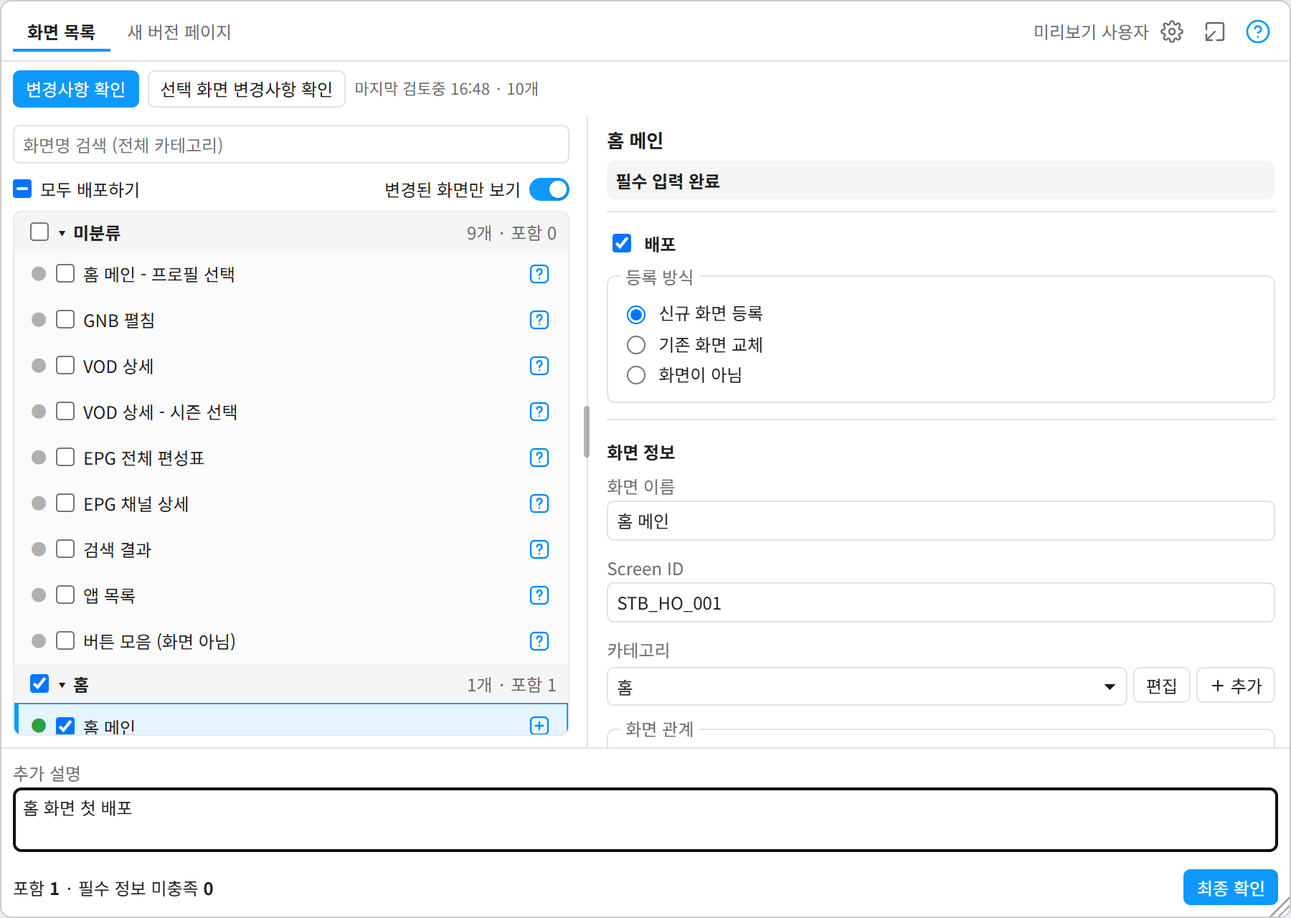
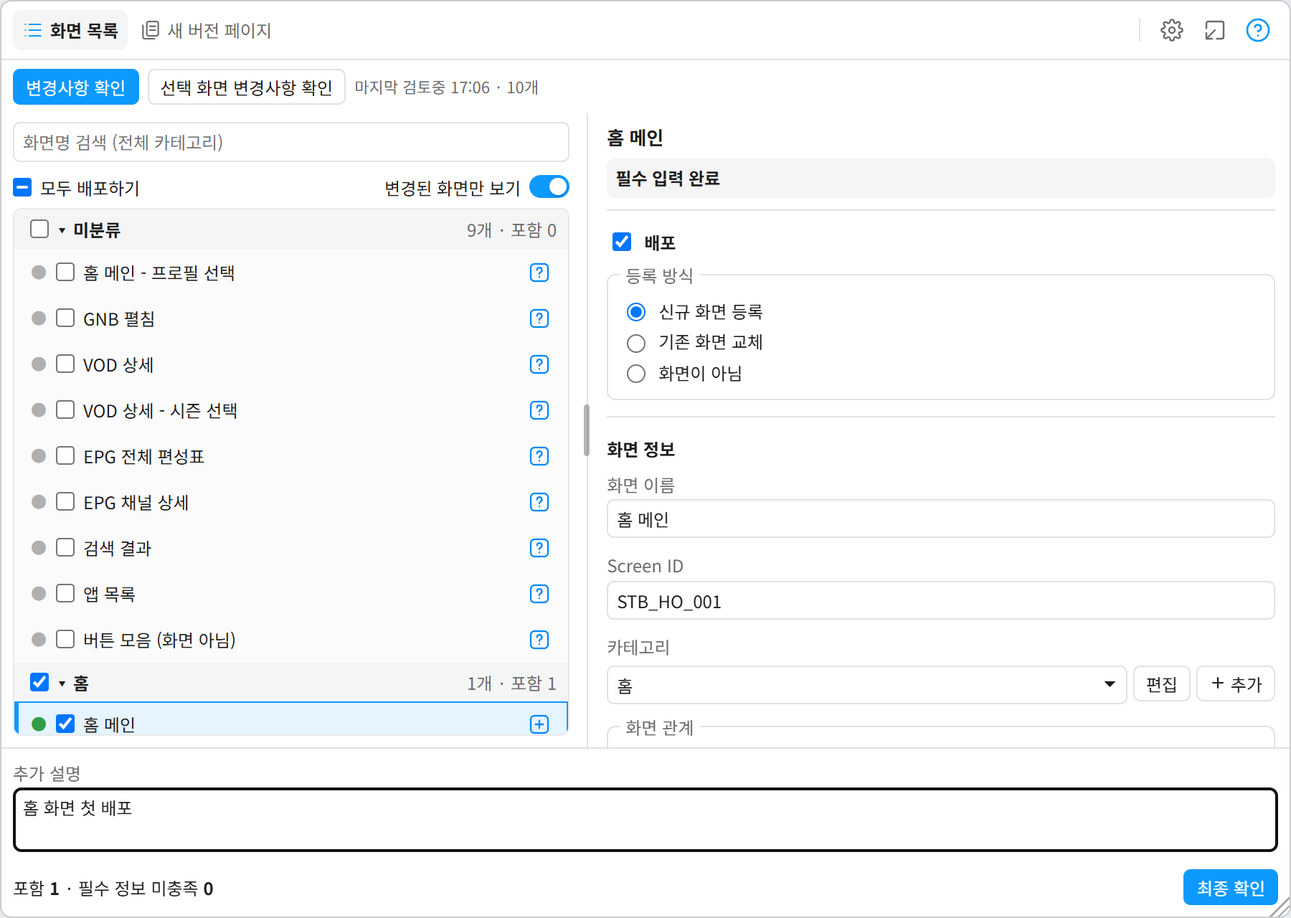
Align navigation with Figma tabs and refine GUI list guidance

diff --git a/release/guide.html b/release/guide.html
@@ -325,9 +325,9 @@ footer { color: var(--muted); font-size: 13px; text-align: center; margin-top: 2
     <figcaption>GUI가 다시 배포된 플립북. 아래쪽 확인 영역에서 수정된 화면을 보고 상태·코멘트를 남긴 뒤 「확인 완료」를 누릅니다.</figcaption>
   </figure>
 
-  <h3>GUI 붙이기와 추적 목록</h3>
-  <p>UI Flipbook의 탭은 <b>플립북 목록 · GUI 붙이기 · 텍스트 편집기 · 플로우 편집기 · PDF 저장</b> 순서입니다. <b>GUI 붙이기</b>는 현재 창 크기를 유지하며 배포된 화면을 목록 또는 그리드로 보여 줍니다. 카테고리의 <b>전체</b> 또는 원하는 카테고리를 고르고 Screen ID·화면 이름으로 검색할 수 있습니다. 특정 카테고리의 검색 결과가 없으면 <b>전체 카테고리에서 검색하기</b>를 눌러 같은 검색어로 전체를 찾습니다. 화면을 누르면 보고 있는 캔버스 가운데에, 끌어 놓으면 그 자리에 레이어 복사본을 만듭니다. 플립북 위에 놓으면 그 프레임 바로 아래 자식으로 들어가 함께 움직입니다. K 단축키로 캔버스에 배치한 화면의 크기를 바꿀 수 있습니다.</p>
-  <figure><img src="screens/ui-paste.png" alt="GUI 붙이기: 카테고리, 크기, 보기 전환과 배포된 화면"><figcaption>그리드의 Screen ID는 썸네일 안 왼쪽 위에 표시합니다. 화면 옆 개수는 추적 GUI와 그 화면이 든 플로우를 합친 수입니다. 링크 아이콘과 개수는 버튼 하나로 표시하며, 0개인 화면은 버튼을 비활성화합니다.</figcaption></figure>
+  <h3>GUI 목록와 추적 목록</h3>
+  <p>UI Flipbook의 탭은 <b>플립북 목록 · GUI 목록 · 텍스트 편집기 · 플로우 편집기 · PDF 저장</b> 순서입니다. <b>GUI 목록</b>는 현재 창 크기를 유지하며 배포된 화면을 목록 또는 그리드로 보여 줍니다. 카테고리의 <b>전체</b> 또는 원하는 카테고리를 고르고 Screen ID·화면 이름으로 검색할 수 있습니다. 특정 카테고리의 검색 결과가 없으면 <b>전체 카테고리에서 검색하기</b>를 눌러 같은 검색어로 전체를 찾습니다. 화면을 누르면 보고 있는 캔버스 가운데에, 드래그하면 그 자리에 레이어 복사본을 만듭니다. 플립북 위에 놓으면 그 프레임 바로 아래 자식으로 들어가 함께 움직입니다. K 단축키로 캔버스에 배치한 화면의 크기를 바꿀 수 있습니다.</p>
+  <figure><img src="screens/ui-paste.png" alt="GUI 목록: 카테고리, 크기, 보기 전환과 배포된 화면"><figcaption>그리드의 Screen ID는 썸네일 안 왼쪽 위에 표시합니다. 화면 옆 개수는 추적 GUI와 그 화면이 든 플로우를 합친 수입니다. 링크 아이콘과 개수는 버튼 하나로 표시하며, 0개인 화면은 버튼을 비활성화합니다.</figcaption></figure>
   <p>화면 오른쪽 목록 아이콘 또는 플립북 상세의 화면을 누르면 <b>추적 목록</b>을 엽니다. 제목은 화면 이름이며, <b>화면 / 플로우</b>를 나눠 놓인 경로와 함께 보여 줍니다. 항목을 누르면 그 레이어로 이동합니다. 캔버스에서 지운 항목은 기록에서도 빠집니다. 플로우 편집기의 별도 「만든 플로우」 목록은 이 팝업으로 통합했습니다.</p>
   <p>GUI를 다시 배포하면 플립북 밖의 추적 GUI도 최신으로 바뀌며 자리·폭·마커를 유지합니다. 배포 당시 그 GUI가 실제로 들어 있는 새 템플릿 플립북에 이력과 확인 필요 표시가 생깁니다. 화면이 삭제·화면이 아님·배포 취소가 되면 레이어는 남기고 추적을 멈추며, 소속 플립북에 삭제된 화면 경고가 생깁니다. 경고의 <b>확인</b>을 누르면 경고와 해당 알림이 사라집니다. 기존 화면 교체는 이어받은 화면을 따라갑니다.</p>
   <p>새 템플릿 플립북의 초기 상태는 <b>작성 전</b>이며 이후 가장 최근에 받은 GUI 또는 UI 태그를 표시합니다. 확인 완료의 기본 상태는 <b>현행</b>(이전 이름 「최신」)입니다. 이전 STB 템플릿의 GUI Image Slot은 기존 방식대로 동작합니다.</p>
@@ -347,10 +347,10 @@ footer { color: var(--muted); font-size: 13px; text-align: center; margin-top: 2
   <h3>플로우 편집기</h3>
   <p>배포된 화면의 썸네일을 배치하고 화살표로 연결한 플로우를 FigJam처럼 만듭니다. 머리의 <span class="ui">플로우 편집기</span> 탭에서 합니다. 플로우는 플립북이 아닌 별도 그룹이라 확인 완료·이력 행이 없습니다.</p>
   <ol class="steps">
-    <li><b>추가</b>왼쪽 <span class="ui">배포된 화면</span>은 GUI 붙이기와 같은 카테고리 선택·검색·목록/그리드 보기를 제공합니다. 특정 카테고리에서 검색 결과가 없으면 <b>전체 카테고리에서 검색하기</b>로 전환합니다. 화면을 클릭하면 판의 빈 자리에, 판으로 드래그하면 놓은 자리에 그 화면의 GUI 썸네일이 추가됩니다. 썸네일은 캔버스에 놓일 크기 비율 그대로 보입니다. 판의 격자는 위치를 맞추는 눈금이라 썸네일이 여러 칸에 걸쳐도 되고, 드래그해 옮기면 격자에 맞춰 놓입니다.</li>
+    <li><b>추가</b>왼쪽 <span class="ui">배포된 화면</span>은 GUI 목록와 같은 카테고리 선택·검색·목록/그리드 보기를 제공합니다. 특정 카테고리에서 검색 결과가 없으면 <b>전체 카테고리에서 검색하기</b>로 전환합니다. 화면을 클릭하면 판의 빈 자리에, 판으로 드래그하면 놓은 자리에 그 화면의 GUI 썸네일이 추가됩니다. 썸네일은 캔버스에 놓일 크기 비율 그대로 보입니다. 판의 격자는 위치를 맞추는 눈금이라 썸네일이 여러 칸에 걸쳐도 되고, 드래그해 옮기면 격자에 맞춰 놓입니다.</li>
     <li><b>연결</b>썸네일에 마우스를 올리면 상하좌우에 점이 나옵니다. 점을 다른 썸네일로 드래그하면 화살표로 연결됩니다. 다른 썸네일의 점에 놓으면 그 변에, 썸네일 위에 놓으면 마주 보는 변에 연결됩니다. 화살표는 다른 화면을 피해 꺾입니다. 썸네일이나 화살표를 선택하고 <kbd>Delete</kbd>를 누르면 삭제됩니다. 판은 Figma 캔버스처럼 가운데 버튼이나 <kbd>Space</kbd>를 누른 채 드래그하거나 휠로 움직이고, <kbd>Ctrl</kbd>+휠로 확대·축소합니다.</li>
     <li><b>만들기</b><span class="ui">플로우 제목</span>을 정하고 <span class="ui">플로우 만들기</span>를 누르면 지금 보고 있는 페이지 가운데에 판과 같은 배치·화살표로 플로우가 생깁니다. 화면마다 제목·썸네일·설명, 화살표마다 출발 화면 가까이에 조건 레이어가 있고, 제목·설명·조건은 더미 글자로 들어가니 캔버스에서 고쳐 씁니다.</li>
-    <li><b>플로우 찾기</b>GUI 붙이기의 화면 오른쪽 목록 아이콘 또는 플립북 상세의 화면을 눌러 추적 목록을 엽니다. 「플로우」의 항목을 누르면 캔버스의 그 화면 칸으로 이동합니다. 캔버스에서 지운 플로우는 목록에서 자동으로 빠집니다.</li>
+    <li><b>플로우 찾기</b>GUI 목록의 화면 오른쪽 목록 아이콘 또는 플립북 상세의 화면을 눌러 추적 목록을 엽니다. 「플로우」의 항목을 누르면 캔버스의 그 화면 칸으로 이동합니다. 캔버스에서 지운 플로우는 목록에서 자동으로 빠집니다.</li>
   </ol>
   <figure>
     <img src="screens/ui-flow.png" alt="플로우 탭: 왼쪽 배포된 화면 목록, 오른쪽 옅은 회색 격자 판에 놓인 썸네일 두 장과 이어진 화살표, 플로우 제목 입력, 플로우 만들기 버튼">

diff --git a/src/ui/styles.css b/src/ui/styles.css
@@ -35,14 +35,17 @@ legend { color: var(--muted); padding: 0 4px; }
 .inline > input, .inline > select { flex: 1; min-width: 0; }
 .inline > button { flex: none; }
 
-.tabs { grid-column: 1 / -1; display: flex; gap: 2px; padding: 6px 8px 0; border-bottom: 1px solid var(--border); align-items: end; }
-.tabs button { border: 0; border-radius: 5px 5px 0 0; padding: 6px 10px; background: none; color: var(--muted); }
-.tabs button[aria-selected="true"] { color: var(--text); font-weight: 600; box-shadow: inset 0 -2px 0 var(--brand); }
-/* 창이 좁으면 사용자 이름, 탭 이름 순으로 줄어(말줄임, 탭 전체 이름은 title) 톱니바퀴·도움말이 창 안에 남는다.
- */
-.create-tabs { display: flex; gap: 2px; min-width: 0; }
-.create-tabs button { white-space: nowrap; min-width: 0; overflow: hidden; text-overflow: ellipsis; }
-.tabs .who { margin-left: auto; color: var(--muted); padding-bottom: 6px; max-width: 40%; overflow: hidden; text-overflow: ellipsis; white-space: nowrap; flex-shrink: 1000; }
+.tabs { grid-column: 1 / -1; display: flex; align-items: center; gap: 4px; padding: 6px 8px; border-bottom: 1px solid var(--border); container-type: inline-size; }
+.tabs button { border: 0; padding: 0 6px; background: none; color: var(--muted); }
+.create-tabs { display: flex; align-items: center; gap: 2px; min-width: 0; }
+.create-tabs button { display: inline-flex; align-items: center; justify-content: center; gap: 4px; height: 28px; flex: none; white-space: nowrap; border-radius: 6px; }
+.create-tabs button svg { flex: none; }
+.create-tabs button[aria-selected="true"] { color: var(--text); font-weight: 600; background: var(--bg2); box-shadow: none; }
+.create-tabs button[aria-selected="true"] svg { color: var(--brand); }
+.tab-tools { display: flex; align-items: center; flex: none; gap: 2px; margin-left: auto; }
+.tab-separator { width: 1px; height: 16px; background: var(--border); margin: 0 6px; }
+@container (max-width: 600px) { .ui-tabs .tab-label { display: none; } }
+@container (max-width: 520px) { .tab-label { display: none; } }
 
 .toolbar { grid-column: 1 / -1; display: flex; gap: 6px; align-items: center; padding: 6px 8px; flex-wrap: wrap; }
 .toolbar input[type="search"] { flex: 1 1 160px; }
@@ -293,9 +296,7 @@ button.link.danger { color: var(--danger); }
 .footer { flex-wrap: wrap; }
 .footer-note { flex-basis: 100%; margin: 0; }
 /* 머리: 실행한 명령 이름과 설정(톱니바퀴) */
-.tabs { align-items: center; padding: 6px 8px; }
 .tabs .app-title { font-weight: 600; }
-.tabs .who { padding-bottom: 0; }
 .tabs .icon-button { display: inline-flex; align-items: center; justify-content: center; width: 28px; height: 28px; padding: 0; border-radius: 6px; color: var(--muted); box-shadow: none; flex: none; }
 .tabs .icon-button[aria-pressed="true"] { color: var(--brand); background: var(--selected); }
 .tabs .help-button { color: var(--brand); }
@@ -570,7 +571,8 @@ button.danger:hover:not(:disabled) { background: var(--danger); color: var(--onb
 .paste-bar select { flex: 1; min-width: 0; }
 .paste-toggle { flex: none; display: flex; gap: 2px; }
 .paste-toggle button[aria-pressed="true"] { color: var(--brand); background: var(--selected); }
-.paste-tip, .paste-hint { flex: none; margin: 0; }
+.paste-tip, .paste-hint { flex: none; margin: 0; padding: 0 4px; }
+.paste-tip-label { color: var(--brand); font-weight: 600; margin-right: 4px; }
 .paste-screens { flex: 1; min-height: 0; overflow: auto; border: 1px solid var(--border); border-radius: 5px; }
 .paste-search { flex: none; min-width: 0; width: 100%; }
 .paste-screens.grid > .empty, .flow-screens.grid > .empty { grid-column: 1 / -1; }

diff --git a/src/ui/app.ts b/src/ui/app.ts
@@ -1,4 +1,5 @@
 import { windowCollapse } from './windowCollapse.ts';
+import { headerTab } from './headerTab.ts';
 import { COPY } from '../core/copy.ts';
 import { changeDetected, entryName, ignoreBlock, uiEntries as buildUiEntries, uiEstimate, type Entry, type UiScan } from '../core/compare.ts';
 import type { GuiScreenInfo } from '../core/guiScreens.ts';
@@ -723,13 +724,14 @@ export function startApp(bridge: Bridge, root: HTMLElement): void {
   function renderTabs() {
     const settings = tab === 'ADMIN';
     // 머리에는 명령 이름(GUI Publish·UI Flipbook)을 쓰지 않고 탭만 둔다(2026-10-22 사용자 요청). 탭이 없는 관리 화면만 「관리」를 쓴다.
+    $('.tabs').classList.toggle('ui-tabs', mode === 'UI');
     $('.tabs').innerHTML = `${settings ? `<span class="app-title">${COPY.uiApp004}</span>` : ''}` +
-      `${mode === 'GUI' && !settings ? `<div class="create-tabs"><button data-action="version-close" aria-selected="${!versionOpen}">${COPY.uiApp272}</button><button data-action="version-open" aria-selected="${versionOpen}">${COPY.uiApp248}</button></div>` : ''}` +
-      `${mode === 'UI' && !settings ? `<div class="create-tabs"><button data-action="text-close" title="${COPY.uiApp302}" aria-selected="${listTabOpen()}">${COPY.uiApp302}</button><button data-action="paste-open" title="${COPY.paste001}" aria-selected="${pasteOpen}">${COPY.paste001}</button><button data-action="text-open" title="${COPY.uiApp303}" aria-selected="${textOpen}">${COPY.uiApp303}</button><button data-action="flow-open" title="${COPY.flow020}" aria-selected="${flowOpen}">${COPY.flow020}</button><button data-action="pdf-open" title="${COPY.pdf001}" aria-selected="${pdfOpen}">${COPY.pdf001}</button></div>` : ''}` +
-      `<span class="who" title="${COPY.uiApp005}">${esc(actor?.name ?? '')}</span>` +
+      `${mode === 'GUI' && !settings ? `<div class="create-tabs" role="tablist">${headerTab('version-close', COPY.uiApp272, !versionOpen, 'list')}${headerTab('version-open', COPY.uiApp248, versionOpen, 'versions')}</div>` : ''}` +
+      `${mode === 'UI' && !settings ? `<div class="create-tabs" role="tablist">${headerTab('text-close', COPY.uiApp302, listTabOpen(), 'book')}${headerTab('paste-open', COPY.paste001, pasteOpen, 'paste')}<span class="tab-separator tab-group-separator" aria-hidden="true"></span>${headerTab('text-open', COPY.uiApp303, textOpen, 'text')}${headerTab('flow-open', COPY.flow020, flowOpen, 'flow')}${headerTab('pdf-open', COPY.pdf001, pdfOpen, 'pdf')}</div>` : ''}` +
+      `<div class="tab-tools">${mode === 'GUI' ? '<span class="tab-separator" aria-hidden="true"></span>' : ''}` +
       `<button class="icon-button" data-action="settings" aria-pressed="${settings}" title="${COPY.uiApp004}" aria-label="${COPY.uiApp004}">${GEAR}</button>` +
       `<button class="icon-button" data-action="collapse-window" title="${COPY.windowCollapse}" aria-label="${COPY.windowCollapse}"><svg width="16" height="16" viewBox="0 0 24 24" fill="none" stroke="currentColor" stroke-width="1.8" stroke-linecap="round" stroke-linejoin="round" aria-hidden="true"><path d="M3 10V5a2 2 0 0 1 2-2h14a2 2 0 0 1 2 2v14a2 2 0 0 1-2 2h-5"/><path d="M3 15v6h6M3 21l9-9"/></svg></button>` +
-      `<button class="icon-button help-button" data-action="tutorial" title="${COPY.uiTutorial001}" aria-label="${COPY.uiTutorial001}">${HELP}</button>`;
+      `<button class="icon-button help-button" data-action="tutorial" title="${COPY.uiTutorial001}" aria-label="${COPY.uiTutorial001}">${HELP}</button></div>`;
   }
 
   function renderToolbar() {

diff --git a/src/core/copy.ts b/src/core/copy.ts
@@ -521,8 +521,8 @@ export const COPY = {
   uiTutorial074: "새 기능",
   uiTutorial075: "소속 화면",
   uiTutorial076: "캔버스에서 이 플립북 안에 놓은 화면입니다. 화면을 누르면 추적 목록에서 붙인 자리와 플로우를 찾습니다.",
-  uiTutorial081: "GUI 붙이기",
-  uiTutorial082: "카테고리를 고르고 화면을 누르거나 캔버스로 끌어 놓습니다. GUI 재배포를 따라가며, 목록 아이콘으로 붙인 자리와 플로우를 찾습니다.",
+  uiTutorial081: "GUI 목록",
+  uiTutorial082: "카테고리를 고르고 화면을 클릭하거나 캔버스로 드래그합니다. GUI 재배포를 따라가며, 목록 아이콘으로 붙인 자리와 플로우를 찾습니다.",
   uiTutorial077: "PDF 저장",
   uiTutorial078: "지금 보고 있는 페이지에서 캔버스로 고른 프레임을 왼쪽 위에서 오른쪽 아래 순서로 한 PDF에 저장합니다. UI Title·Update History List는 저장하는 동안만 숨깁니다.",
   uiTutorial079: "변경 사항",
@@ -841,7 +841,7 @@ export const COPY = {
   // 추적 GUI — src/trackController.ts
   track001: '붙인 화면',
   track002: '개를 새 버전으로 바꿨습니다.',
-  track003: '배포된 GUI가 없는 화면이라 붙이지 못했습니다. GUI 붙이기 탭을 다시 열어 목록을 새로 받으세요.',
+  track003: '배포된 GUI가 없는 화면이라 붙이지 못했습니다. GUI 목록 탭을 다시 열어 목록을 새로 받으세요.',
   track004: '화면 붙이는 중',
   track005: '캔버스에서 삭제된 화면입니다. 목록에서 제거했습니다.',
   // 추적 목록 팝업 — src/ui/trackListView.ts
@@ -851,19 +851,20 @@ export const COPY = {
   trackList004: '이 화면이 든 플로우가 없습니다.',
   trackList005: '닫기',
   trackList006: '추적 목록',
-  // GUI 붙이기 탭 — src/ui/pasteView.ts
-  paste001: 'GUI 붙이기',
+  // GUI 목록 탭 — src/ui/pasteView.ts
+  paste001: 'GUI 목록',
   paste002: '카테고리',
   paste003: '목록 보기',
   paste004: '그리드 보기',
   paste005: '화면 크기',
   paste006: 'K 단축키로 캔버스에 배치한 화면의 크기를 바꿀 수 있습니다.',
-  paste007: '끌어서 캔버스에 놓거나, 누르면 보고 있는 화면 가운데에 붙입니다.',
+  paste007: '캔버스로 드래그 혹은 클릭하여 GUI를 배치할 수 있습니다.',
   paste008: '붙인 화면·플로우',
   paste009: '전체',
   paste010: 'Screen ID·화면 이름 검색',
   paste011: '전체 카테고리에서 검색하기',
   paste012: '검색 결과가 없습니다.',
+  paste013: 'TIP',
   // PDF 저장 — src/ui/pdfView.ts, src/figma/pdf.ts
   pdf001: 'PDF 저장',
   pdf002: '선택한 프레임',

diff --git a/src/ui/headerTab.ts b/src/ui/headerTab.ts
@@ -1,0 +1,15 @@
+import { esc } from './html.ts';
+
+type TabIcon = 'list' | 'versions' | 'book' | 'paste' | 'text' | 'flow' | 'pdf';
+const paths: Record<TabIcon, string> = {
+  list: '<path d="M8 6h12M8 12h12M8 18h12M4 6h.01M4 12h.01M4 18h.01"/>',
+  versions: '<rect x="8" y="3" width="12" height="15" rx="2"/><path d="M4 7v12a2 2 0 0 0 2 2h10M11 8h6M11 12h6"/>',
+  book: '<path d="M12 5c-3-2-6-2-9-1v15c3-1 6-1 9 1 3-2 6-2 9-1V4c-3-1-6-1-9 1v15Z"/>',
+  paste: '<rect x="3" y="3" width="18" height="18" rx="2"/><path d="M3 15l5-5 5 5 3-3 5 5M16 7h.01"/>',
+  text: '<path d="M4 5h16M12 5v15M8 20h8"/>',
+  flow: '<rect x="3" y="3" width="6" height="6" rx="1"/><rect x="15" y="15" width="6" height="6" rx="1"/><path d="M6 9v9h9M13 5h6v6"/>',
+  pdf: '<path d="M14 3H6a2 2 0 0 0-2 2v14a2 2 0 0 0 2 2h12a2 2 0 0 0 2-2V9l-6-6Z"/><path d="M14 3v6h6M8 13h8M8 17h6"/>',
+};
+export function headerTab(action: string, label: string, selected: boolean, icon: TabIcon): string {
+  return `<button role="tab" data-action="${action}" title="${esc(label)}" aria-label="${esc(label)}" aria-selected="${selected}"><svg width="16" height="16" viewBox="0 0 24 24" fill="none" stroke="currentColor" stroke-width="1.6" stroke-linecap="round" stroke-linejoin="round" aria-hidden="true">${paths[icon]}</svg><span class="tab-label">${esc(label)}</span></button>`;
+}

diff --git a/src/ui/pasteView.ts b/src/ui/pasteView.ts
@@ -73,9 +73,9 @@ export function pasteView(root: HTMLElement, actions: PasteActions): PasteView {
 
   function build(el: HTMLElement) {
     el.innerHTML = `${screenPickerControls('paste', query)}
-      <p class="note paste-tip">${COPY.paste006}</p>
+      <p class="note paste-hint">${COPY.paste007}</p>
       <div class="paste-screens"></div>
-      <p class="note paste-hint">${COPY.paste007}</p>`;
+      <p class="note paste-tip"><span class="paste-tip-label">${COPY.paste013}</span> ${COPY.paste006}</p>`;
     el.addEventListener('input', ev => {
       const input = ev.target as HTMLInputElement;
       if (input.dataset.paste !== 'search') return;

diff --git a/BEHAVIOR.md b/BEHAVIOR.md
@@ -6,13 +6,14 @@
 
 ## 공통
 
+- 상단 탭은 Figma Design·Prototype 탭처럼 선택 시 연한 회색 배경·둥근 모서리로 표시하며 밑줄은 없다. 각 탭에 아이콘을 붙이고 선택한 탭의 아이콘만 파란색으로 표시한다. 좁은 창에서는 아이콘만 표시한다(이름은 툴팁·접근성 이름으로 유지). 사용자 이름은 표시하지 않는다. UI Flipbook은 「플립북 목록 · GUI 목록 | 텍스트 편집기 · 플로우 편집기 · PDF 저장」 사이에 짧은 세로 구분선을 둔다. GUI Publish는 탭 두 개와 오른쪽 도구 사이에 구분선을 둔다. 기본 창에서는 탭 이름을 표시하고 공간이 부족한 좁은 창에서만 아이콘으로 표시한다.
 - 머리의 「창 접기」를 누르면 명령 이름과 「창 펼치기」 버튼만 있는 작은 바로 줄어든다. 펼치면 접기 전 크기·작업 화면·입력·선택 상태로 돌아온다. 접힌 동안 작업은 계속되고, 작은 바의 크기는 다음 실행 크기로 저장하지 않는다.
 
 - GUI팀과 UI팀이 한 Figma 파일에서 화면 변경을 확정(Publish)하고 플립북과 이력을 관리하는 플러그인이다. 플러그인 메뉴에서 **GUI Publish** 또는 **UI Flipbook** 명령을 골라 실행한다.
 - GUI와 UI는 한 파일에서 작업한다. 플립북에는 GUI 원본의 레이어 복사본(컴포넌트 연결을 끊은 복제, 스타일·변수 연결 유지)을 원본에서 바로 넣는다. PNG나 라이브러리 컴포넌트로 전달하지 않으며, 외부 서버와 Figma 팀 라이브러리는 쓰지 않는다.
 - 캔버스에서 프레임을 고르면 실행한 명령의 목록에서만 그 항목을 고른다. GUI Publish에서 플립북 프레임을, UI Flipbook에서 GUI 원본을 골라도 다른 명령의 화면으로 바꾸지 않는다.
 - 창은 오른쪽 아래 손잡이로 가로 448px, 세로 370px(UI Flipbook은 320px)까지 줄일 수 있고, 넘치는 내용은 각 영역 안에서 스크롤한다.
-- 상시 표시 썸네일은 플립북 상세 240px, GUI 붙이기 그리드 최소 160px, 새 버전 비교 최소 240px을 기준으로 영역 폭에 맞춰 줄인다. 이전 배포 미리보기는 최대 720px이다. 마우스 오버 미리보기는 플로우 편집기를 포함해 최대 240px로 통일하고 창 안에 맞춰 줄인다. 버튼 위에서는 미리보기를 표시하지 않으며, 행에서 버튼으로 이동하면 열린 미리보기를 닫는다.
+- 상시 표시 썸네일은 플립북 상세 240px, GUI 목록 그리드 최소 160px, 새 버전 비교 최소 240px을 기준으로 영역 폭에 맞춰 줄인다. 이전 배포 미리보기는 최대 720px이다. 마우스 오버 미리보기는 플로우 편집기를 포함해 최대 240px로 통일하고 창 안에 맞춰 줄인다. 버튼 위에서는 미리보기를 표시하지 않으며, 행에서 버튼으로 이동하면 열린 미리보기를 닫는다.
 - 두 번 눌러 실행하는 버튼은 누적 데이터 삭제처럼 중요한 동작에만 쓴다.
 - DATA 페이지는 파일 내부 원기록을 읽기용으로 보여 준다. 요약 표와 이력 표는 옆으로 나란히 둔다. 원본 프레임이 지워진 화면은 원본 링크 없이 이름만 쓴다.
 
@@ -116,8 +117,8 @@
 ### 화면 구성
 
 - UI Flipbook은 배포하지 않고 GUI가 수정된 화면만 알린다. 변경사항 확인·배포 체크·작업자 입력·UI 배포는 없다.
-- 머리 탭은 「플립북 목록 · GUI 붙이기 · 텍스트 편집기 · 플로우 편집기 · PDF 저장」이다. GUI 붙이기의 좁은 창에서는 탭 이름이 말줄임(…)으로 줄고, 마우스를 올리면 전체 이름이 보인다(톱니바퀴·도움말은 창 안에 남는다).
-- GUI 붙이기 탭 진입·다른 탭 전환은 현재 창 크기를 유지한다. 영역 접기와 탭 전환 시 자동 크기 변경은 없다.
+- 머리 탭은 「플립북 목록 · GUI 목록 · 텍스트 편집기 · 플로우 편집기 · PDF 저장」이다. 좁은 창에서는 탭 아이콘만 표시하고 마우스를 올리면 전체 이름이 보인다.
+- GUI 목록 탭 진입·다른 탭 전환은 현재 창 크기를 유지한다. 영역 접기와 탭 전환 시 자동 크기 변경은 없다.
 
 ### 관리
 
@@ -146,9 +147,9 @@
 
 ### 추적 GUI
 
-새 템플릿 플립북의 기본 단위는 캔버스에 붙인 화면(추적 GUI)이다(2026-10-29 사용자 결정, Altimedia PRD 「화면 추적과 GUI 붙이기」).
+새 템플릿 플립북의 기본 단위는 캔버스에 붙인 화면(추적 GUI)이다(2026-10-29 사용자 결정, Altimedia PRD 「화면 추적과 GUI 목록」).
 
-- **추적 GUI**: GUI 붙이기와 새 플립북 만들기로 캔버스에 놓은 GUI 원본의 레이어 복사본이다. 플러그인은 복사본마다 위치(화면·노드·페이지)를 기록(`trk:`)하고 노드에 기록 ID(`trackOf`)를 적는다. 이력 행은 남기지 않는다.
+- **추적 GUI**: GUI 목록와 새 플립북 만들기로 캔버스에 놓은 GUI 원본의 레이어 복사본이다. 플러그인은 복사본마다 위치(화면·노드·페이지)를 기록(`trk:`)하고 노드에 기록 ID(`trackOf`)를 적는다. 이력 행은 남기지 않는다.
 - **GUI가 다시 배포될 때**(GUI Publish 확정 직후, 진행 문구 「UI 반영 중」): 배포한 화면의 추적 GUI를 모두 새 버전으로 바꾼다. 자리·레이어 순서·이름·잠금과 지금 폭(캔버스에서 K로 바꾼 크기)을 지키고, 같은 화면·같은 폭은 한 번 만든 복사본을 복제해 쓴다. 결과에 「붙인 화면 n개를 새 버전으로 바꿨습니다.」를 덧붙인다.
   - 바꿀 때 그 화면의 추적 기록이 있는 페이지와 새 템플릿 플립북이 있는 페이지를 읽는다. 그 페이지들에서 기록에 없는 복사본(캔버스에서 복제·복사한 것)을 찾으면 새 기록을 만들어 함께 바꾸고, 찾지 못한 기록은 묻지 않고 뺀다.
   - 배포 순간에 추적 GUI가 실제로 있는 새 템플릿 플립북이 그 화면을 가진 플립북이다. 그 플립북에 이력 행을 더하고 확인 필요(빨간 점)로 표시한다. 플립북 밖의 추적 GUI는 이력을 만들지 않는다.
@@ -158,7 +159,7 @@
   - Screen ID 칸과 자동 제목은 들어 있는 화면으로 정하며 순서는 Screen ID 이름순이다. 자동 제목은 그 순서의 첫 화면 이름이다.
   - 캔버스에서 복제한 플립북 프레임 안의 추적 GUI는 플립북 밖에 있는 것으로 본다.
 - **복제 찾기**: UI Flipbook이 열려 있는 동안 보고 있는 페이지에 새로 생긴(복제·붙여 넣은) 추적 GUI는 바로 새 기록을 받는다. 플러그인을 닫은 동안 복제한 것은 배포·목록 새로고침 때 위 페이지들에서 찾는다(다른 페이지에 붙여 넣은 것은 그 페이지에 추적 기록이 생길 때까지 찾지 못한다).
-- 이전 템플릿(이름 규칙) 플립북은 이번에는 지금 방식대로 동작한다(GUI Image Slot에 플러그인이 넣는 복사본은 추적 GUI가 아니다). 그 플립북에 GUI 붙이기로 붙인 화면은 플립북 밖의 추적 GUI처럼 배포를 따라가지만 플립북의 화면이 되지 않는다.
+- 이전 템플릿(이름 규칙) 플립북은 이번에는 지금 방식대로 동작한다(GUI Image Slot에 플러그인이 넣는 복사본은 추적 GUI가 아니다). 그 플립북에 GUI 목록로 붙인 화면은 플립북 밖의 추적 GUI처럼 배포를 따라가지만 플립북의 화면이 되지 않는다.
 
 ### 플립북 목록
 
@@ -188,7 +189,7 @@
 - 카테고리·Section·페이지 이름은 서로 독립이며 서로 참고할 뿐이다.
 - 페이지 바로 아래의 Section(루트 Section)만 Section으로 본다. Section 안의 Section은 없는 것으로 보고, 그 안의 플립북도 루트 Section에 놓인 것으로 루트 Section 기준 위치로 센다.
 - 캔버스에서 직접 만든 루트 Section에 플립북을 넣으면 그 Section에 플러그인 표식을 붙여 Section으로 인식한다. Section을 복제해 같은 표식이 여럿이면 위쪽 Section(같은 높이면 왼쪽)만 그 표식을 두고 나머지는 새 Section으로 본다. 표식만 붙이고 배치는 바꾸지 않는다.
-- 어느 루트 Section에도 들지 않은(페이지 바로 아래) 플립북은 「(섹션 없음)」이다. 목록에서는 그 페이지 맨 위에 라벨 행 없이 페이지 위치 순서로 모으고, Chapter에는 「-」를 쓴다. 새 플립북의 Section 드롭다운에서는 고를 수 없고 목록에서 끌어 놓을 수도 없다. Section 밖으로 빼는 것은 캔버스에서만 한다.
+- 어느 루트 Section에도 들지 않은(페이지 바로 아래) 플립북은 「(섹션 없음)」이다. 목록에서는 그 페이지 맨 위에 라벨 행 없이 페이지 위치 순서로 모으고, Chapter에는 「-」를 쓴다. 새 플립북의 Section 드롭다운에서는 고를 수 없고 목록에서 드래그해 놓을 수도 없다. Section 밖으로 빼는 것은 캔버스에서만 한다.
 - Section 이름은 캔버스에서 바꾼다. 플러그인은 이미 있는 Section의 이름을 바꾸지 않는다. 캔버스에서 바꾼 이름은 플러그인을 열 때와 목록을 새로고침할 때 그 Section 플립북의 기록·목록·Chapter에 반영한다(이름을 비우면 따르지 않는다).
 - 플립북이 놓인 페이지·Section도 캔버스가 원본이다. 캔버스에서 플립북 프레임을 다른 Section이나 다른 플립북 페이지로 옮기면 플러그인을 열 때와 목록을 새로고침할 때 기록·목록·Chapter가 따라간다. 플립북을 반영(GUI 배포·확인 완료 등)하기 전에도 먼저 맞추며, 이때 캔버스를 읽지 못하면 기록대로 반영한다.
 - GUI Publish에서 반영할 때(배포 직후, 관리의 정정·Screen ID 변경 등)는 반영할 플립북이 기록된 페이지만 읽어 그 페이지의 플립북만 맞춘다. 그 페이지에서 반영할 플립북의 원본 프레임을 찾지 못하면(다른 페이지로 옮김, 복사본만 있음) 플립북 페이지를 모두 읽는다. 읽지 않은 페이지에 있는 플립북의 옮김은 UI Flipbook을 열 때나 목록을 새로고침할 때 맞춘다.
@@ -218,7 +219,7 @@
 
 ### 기존 플립북 옮기기
 
-- 만든 플립북 행도 새 플립북처럼 드래그하거나 Alt+↑↓로 자리를 옮긴다. 다른 Section(다른 플립북 페이지 포함)에 놓으면 그 페이지·Section으로 옮긴다. 「(섹션 없음)」 플립북도 끌어서 Section으로 옮길 수 있다. 연결이 끊긴 플립북은 옮기지 않는다.
+- 만든 플립북 행도 새 플립북처럼 드래그하거나 Alt+↑↓로 자리를 옮긴다. 다른 Section(다른 플립북 페이지 포함)에 놓으면 그 페이지·Section으로 옮긴다. 「(섹션 없음)」 플립북도 드래그해서 Section으로 옮길 수 있다. 연결이 끊긴 플립북은 옮기지 않는다.
 - 옮긴 플립북은 목록에서만 옮겨진다. 원래 Section·순서로 되돌려 놓으면 옮기지 않은 것으로 본다.
 - **만들기**(새 플립북이 없으면 **배치 반영**)를 누르면 「플립북 배치」 모달이 캔버스 배치에도 반영할지 묻는다.
   - **반영하지 않음**: 기존 플립북을 캔버스 순서로 되돌리고 새 플립북만 만든다.
@@ -232,23 +233,23 @@
 - 모달에서 페이지(기본값은 지금 보고 있는 플립북 페이지)와 범위(카테고리, 화면 유형(전체·기본·케이스), 검색)를 정하고, 범위 안의 화면을 체크로 빼거나 넣은 뒤 화면마다 단일 플립북(기본 크기)을 하나씩 바로 만든다.
 - 사용 중인 플립북이 있는 화면과 새 플립북에서 고른 화면은 대상에서 뺀다. 목록의 새 플립북(만들기 전)은 그대로 남는다.
 
-### GUI 붙이기
+### GUI 목록
 
 배포된 화면을 캔버스에 추적 GUI로 붙인다. 화면 편집은 없다(2026-10-29 사용자 결정: 화면은 캔버스와 이 탭에서 넣고 뺀다. 이전 템플릿 플립북도 화면 편집이 없다).
 
-- **화면**: 맨 위에 카테고리 드롭다운과 목록 보기·그리드 보기 버튼, 그 아래 검색 입력과 팁(「K 단축키로 캔버스에 배치한 화면의 크기를 바꿀 수 있습니다.」), 배포된 화면 목록, 맨 아래 붙이는 방법 안내다.
+- **화면**: 맨 위에 카테고리 드롭다운과 목록 보기·그리드 보기 버튼, 그 아래 검색 입력과 「캔버스로 드래그 혹은 클릭하여 GUI를 배치할 수 있습니다.」 안내, 배포된 화면 목록, 맨 아래 파란색 「TIP」과 「K 단축키로 캔버스에 배치한 화면의 크기를 바꿀 수 있습니다.」 안내다. 두 안내에는 약간의 좌우 여백을 둔다.
 - **카테고리와 검색**: 처음에는 「전체」를 선택하고 모든 배포 화면을 Screen ID 순으로 보여 준다. 카테고리를 고르면 그 범위에서 Screen ID·화면 이름의 부분 일치로 검색한다(앞뒤 공백·대소문자 무시). 특정 카테고리에서 검색 결과가 없으면 빈 목록 자리에 「전체 카테고리에서 검색하기」를 표시한다. 누르면 검색어를 유지하고 카테고리를 전체로 바꾼다. 전체에서도 결과가 없으면 「검색 결과가 없습니다.」를 표시한다. 검색어·카테고리·보기는 탭을 오가도 남는다(플러그인을 닫으면 처음으로).
 - **목록 보기**는 Screen ID·이름 줄이며 마우스를 올리면 GUI 썸네일을 띄운다. **그리드 보기**는 썸네일 칸(16:9 안에 맞춤)과 이름이다. Screen ID는 썸네일 안 왼쪽 위에 표시한다. 썸네일 아래는 화면명과 링크 개수 버튼을 같은 행에 두며 긴 이름은 말줄임한다.
 - 화면마다 캔버스에 붙은 수(그 화면의 추적 GUI 수와 그 화면 썸네일이 든 플로우 수를 합친 값, 플로우는 한 번씩)를 링크 아이콘과 숫자가 함께 있는 추적 목록 버튼으로 보여 준다. 0개도 표시하되 버튼을 비활성화한다. 활성 버튼은 링크 아이콘만 파란색이며 숫자와는 좁은 간격으로 붙인다. 목록 아이콘을 누르면 그 화면의 추적 목록 팝업을 연다(붙이지 않는다).
 - **화면 크기**: 선택 기능 없이 기본 크기로 붙인다. GUI 원본 폭이 관리의 화면 최대 가로 크기보다 크면 줄이고, 작은 화면은 원래 크기로 붙인다. 배치 후 K 단축키로 크기를 바꿀 수 있다.
 - **붙이기**
-  - 화면을 끌어 플러그인 창 밖(캔버스)에 놓으면 놓은 자리에, 화면을 누르면 지금 보고 있는 화면 가운데에 붙인다. 붙인 GUI의 가운데가 그 점에 오고, 붙인 GUI를 고른다.
+  - 화면을 드래그해 플러그인 창 밖(캔버스)에 놓으면 놓은 자리에, 화면을 누르면 지금 보고 있는 화면 가운데에 붙인다. 붙인 GUI의 가운데가 그 점에 오고, 붙인 GUI를 고른다.
   - 놓인 노드 안에 붙인다: 플립북 위면 그 플립북 프레임 바로 아래(플립북과 함께 움직인다), 다른 프레임·Section 위면 그 안, 빈 곳이면 페이지. GUI 원본·GUI 복사본·인스턴스·컴포넌트 안에는 넣지 않고 그 바깥의 프레임·Section에 넣는다. 잠긴 노드 위면 페이지다. 오토 레이아웃 프레임에는 절대 위치로 놓는다.
   - 새 템플릿 플립북 안에 붙이면 그 페이지의 플립북 화면 목록을 다시 읽어 Screen ID 칸·자동 제목을 맞춘다(이력은 남기지 않는다).
 
 ### 추적 목록
 
-화면 하나가 캔버스에 붙은 자리를 보여 주는 팝업이다. GUI 붙이기의 목록 아이콘과 플립북 상세의 화면(썸네일·이름 줄)에서 연다.
+화면 하나가 캔버스에 붙은 자리를 보여 주는 팝업이다. GUI 목록의 목록 아이콘과 플립북 상세의 화면(썸네일·이름 줄)에서 연다.
 
 - 제목은 그 화면의 이름이다(Screen ID는 넣지 않는다).
 - **화면**(추적 GUI)과 **플로우**(그 화면의 썸네일이 든 플로우)를 나눠 개수와 함께 보여 준다. 플로우는 레이어 복사가 아니라 썸네일이라 따로 둔다. 만든 순서다.
@@ -278,7 +279,7 @@
 - Screen ID 칸의 레이어는 반영할 때 모두 지우고 화면 순서대로 Screen ID 태그를 넣는다.
 - 새 템플릿(연결 기록이 있는 템플릿)에서 만든 플립북은 GUI 복사본을 GUI 영역 안에 넣지 않고 플립북 프레임 위에 오토 레이아웃 없이 얹는다(오토 레이아웃 프레임이면 절대 위치). 사용자가 화면을 자유롭게 옮길 수 있다.
   - 처음 놓는 자리는 GUI 영역 왼쪽 위에서 여백(24)만큼 띄운 곳이다. 바로 앞 화면 오른쪽에 간격(12)을 두고 이어 놓고, GUI 영역 오른쪽(여백 포함)을 넘으면 놓인 화면 아래 다음 줄로 간다. GUI 영역 안의 내용(표·안내 등)은 그대로 둔다.
-  - GUI 복사본은 플립북을 만들 때만 놓는다. 그 뒤로는 추적 GUI라 다시 반영할 때 놓거나 지우지 않고, 화면은 캔버스·GUI 붙이기에서 넣고 뺀다. GUI 배포 때는 추적 GUI를 제자리·같은 폭으로 바꾸므로 그 위의 마커는 그대로다(「추적 GUI」).
+  - GUI 복사본은 플립북을 만들 때만 놓는다. 그 뒤로는 추적 GUI라 다시 반영할 때 놓거나 지우지 않고, 화면은 캔버스·GUI 목록에서 넣고 뺀다. GUI 배포 때는 추적 GUI를 제자리·같은 폭으로 바꾸므로 그 위의 마커는 그대로다(「추적 GUI」).
   - 만들 때 복사본이 GUI 영역 아래로 넘치면 GUI 영역을 늘리고(처음 높이 아래로는 줄이지 않음), 플립북 오른쪽으로 넘치면 플립북 폭을 늘린다(오토 레이아웃이 아닌 플립북은 아래로도 늘림). 넘치지 않으면 크기를 바꾸지 않는다.
 - 이전 템플릿(이름 규칙)에서 만든 플립북은 지금처럼 GUI 영역(GUI Image Slot) 안에, 「화면 크기」를 GUI 영역 폭으로 삼아 행 단위로 배치한다. 1x·1/2x·1/4x는 두 장·네 장이 간격(12px)을 포함해 1x 폭에 들어가는 크기다(1920 원본 기준, 1440 → 714·351). 작게는 1/2x로 넣는다.
 - GUI를 다시 복사할 때 GUI 영역 위의 마커(GUI 영역 안의 노드, 플립북 프레임에 절대 위치로 놓은 노드 중 중심이 GUI 영역 안인 것)는 크기를 그대로 두고, 중심을 품은(없으면 가장 가까운) 화면의 새 복사본에서 같은 상대 위치로 옮긴다. 화면 순서가 바뀌어도 같은 화면을 따라간다. GUI 영역 밖의 노드와 Description은 옮기지 않는다.
@@ -331,16 +332,16 @@
 배포된 화면의 썸네일을 놓고 꺾인 화살표로 잇는 독립 그룹이다. 플로우·화면·Connector가 모두 그룹이고 배경이 없으며, 크기를 바꾸면 화살표도 함께 늘어난다. 텍스트 편집처럼 부가 기능이다. 플립북이 아니므로 플립북 목록·확인 완료·빨간 점·이력 행이 없고 템플릿을 쓰지 않는다.
 
 - **화면**: 판 위 머리 줄 왼쪽에 「플로우 구성」과 만들기 안내, 오른쪽에 **모두 지우기**·**플로우 만들기**를 두고, 그 아래 **플로우 제목**(비우면 「플로우」) 입력, 판, 조작 안내 순서다.
-- **왼쪽 「배포된 화면」**: GUI 붙이기와 같은 카테고리 드롭다운(기본 「전체」), Screen ID·화면 이름 검색, 목록/그리드 보기를 제공한다. 선택한 카테고리의 사용 중인 배포 화면을 Screen ID 순으로 보여 준다. 특정 카테고리의 검색 결과가 없으면 「전체 카테고리에서 검색하기」를 눌러 검색어를 유지한 채 전체로 전환한다. 목록 보기는 마우스를 올리면 다른 화면과 같은 최대 240px GUI 썸네일을, 그리드는 최소 160px 썸네일을 보여 준다. 그리드의 Screen ID는 썸네일 안 왼쪽 위에 표시하고, GUI 붙이기와 같은 링크 아이콘·개수 버튼으로 추적 목록을 연다(0개면 비활성화). 카테고리·검색어·보기는 탭을 오가도 유지한다.
+- **왼쪽 「배포된 화면」**: GUI 목록와 같은 카테고리 드롭다운(기본 「전체」), Screen ID·화면 이름 검색, 목록/그리드 보기를 제공한다. 선택한 카테고리의 사용 중인 배포 화면을 Screen ID 순으로 보여 준다. 특정 카테고리의 검색 결과가 없으면 「전체 카테고리에서 검색하기」를 눌러 검색어를 유지한 채 전체로 전환한다. 목록 보기는 마우스를 올리면 다른 화면과 같은 최대 240px GUI 썸네일을, 그리드는 최소 160px 썸네일을 보여 준다. 그리드의 Screen ID는 썸네일 안 왼쪽 위에 표시하고, GUI 목록와 같은 링크 아이콘·개수 버튼으로 추적 목록을 연다(0개면 비활성화). 카테고리·검색어·보기는 탭을 오가도 유지한다.
 - **판에 놓기**(FigJam처럼)
-  - 화면을 누르면 오른쪽 「플로우 구성」 판(옅은 회색 끝없는 격자)의 첫 빈 자리에, 판으로 끌어 놓으면 놓은 자리에 그 화면의 GUI 썸네일을 놓는다. 같은 화면을 여러 번 놓을 수 있다.
+  - 화면을 누르면 오른쪽 「플로우 구성」 판(옅은 회색 끝없는 격자)의 첫 빈 자리에, 판으로 드래그해 놓으면 놓은 자리에 그 화면의 GUI 썸네일을 놓는다. 같은 화면을 여러 번 놓을 수 있다.
   - 썸네일은 캔버스에 놓일 1/4 썸네일 크기에 판 배율을 곱한 크기라 화면마다 크기·비율이 다르다. 왼쪽 위에 Screen ID를, 마우스를 올리면 Screen ID와 이름을 보여 준다.
   - 격자는 한 칸에 하나씩 넣는 자리가 아니라 놓는 위치를 맞추는 스냅이다. 썸네일 왼쪽 위가 격자점에 맞고, 한 썸네일이 여러 칸에 걸친다.
-  - 끌어 놓을 때는 포인터가 썸네일 가운데가 되며 놓을 자리를 점선 테두리로 옅게 칠한다. 놓은 썸네일을 끌면 격자 간격으로 따라오며 화살표도 함께 다시 그린다. 다른 썸네일과 겹쳐 놓을 수도 있다.
+  - 드래그해 놓을 때는 포인터가 썸네일 가운데가 되며 놓을 자리를 점선 테두리로 옅게 칠한다. 놓은 썸네일을 드래그하면 격자 간격으로 따라오며 화살표도 함께 다시 그린다. 다른 썸네일과 겹쳐 놓을 수도 있다.
   - 첫 빈 자리는 (0, 0)부터 위에서 아래로, 같은 높이에서는 왼쪽부터 격자점을 살펴 다른 썸네일과 화면 간격(가로·세로 80) 이상 떨어진 곳이다. 한 줄은 판 너비까지(썸네일이 더 오른쪽에 있으면 거기까지)다. 판을 움직여 왼쪽·위에도 놓을 수 있다.
-  - 판은 스크롤 막대 없이 Figma 캔버스처럼 움직인다: 가운데 버튼으로 끌기, Space를 누른 채 끌기, 휠(Shift+휠은 가로)·트랙패드, Ctrl(⌘)+휠·핀치로 포인터 자리를 중심으로 확대·축소.
+  - 판은 스크롤 막대 없이 Figma 캔버스처럼 움직인다: 가운데 버튼으로 드래그, Space를 누른 채 드래그, 휠(Shift+휠은 가로)·트랙패드, Ctrl(⌘)+휠·핀치로 포인터 자리를 중심으로 확대·축소.
 - **잇기**
-  - 썸네일에 마우스를 올리면 상하좌우에 점이 나오고, 점을 끌어 다른 썸네일에 놓으면 꺾인 화살표로 잇는다. 다른 썸네일의 점 위에 놓으면 그 변, 썸네일 위에 놓으면 출발 썸네일을 마주 보는 변(가운데끼리 가로로 더 멀면 좌우 변, 아니면 위아래 변)에 닿는다. 끄는 동안 이어질 경로를 미리 보여 준다.
+  - 썸네일에 마우스를 올리면 상하좌우에 점이 나오고, 점을 드래그해 다른 썸네일에 놓으면 꺾인 화살표로 잇는다. 다른 썸네일의 점 위에 놓으면 그 변, 썸네일 위에 놓으면 출발 썸네일을 마주 보는 변(가운데끼리 가로로 더 멀면 좌우 변, 아니면 위아래 변)에 닿는다. 드래그하는 동안 이어질 경로를 미리 보여 준다.
   - 화살촉은 선 굵기와 관계없이 5px로 같다.
   - 경로는 썸네일 가장자리 가운데에서 나가고 들어온다. 지나는 길이 다른 화면의 자리(제목·이미지·설명)와 겹치지 않으면 차례로 ① 마주 보는 변이 한 줄이면 직선 ② 마주 보는 변이 어긋나면 출발점과 화살촉 끝의 가운데에서 두 번 꺾기 ③ 위아래 변과 좌우 변은 한 번만 꺾기를 쓴다. 막혔거나 그 밖의 방향이면 화면 사이 통로 가운데(모든 화면 바깥은 화면 간격의 절반 밖)를 따라 덜 꺾이고 짧은 길로 돌아간다. 겹쳐 놓아 길이 없으면 다른 화면은 무시한다.
   - 화살표 라벨은 없다. 조건 글은 캔버스에서 쓴다.
@@ -354,7 +355,7 @@
   - 화살표마다 조건 레이어를 출발 화면 가까이에 둔다: 좌우로 나가면 화살표 위(출발 화면 옆 화면 간격 안), 위아래로 나가면 화살표 오른쪽. 조건 레이어는 출발점에서 8px 떨어진다.
   - 제목·설명·조건은 각각 Title·Caption·Action 레이어에 두고, 안내 글자 「화면 제목 입력」·「화면 설명 입력」·「조건」을 넣는다. 플로우의 글자는 모두 #333333, 채움 불투명도 100%다.
   - 플러그인은 만든 뒤 내용을 고치지 않는다.
-  - 배치 값: 화면 간격(이미지 사이) 가로 80·세로 80(판에서 누르기만 해 놓을 때의 간격이며, 끌어 놓으면 사용자가 정한 자리를 따른다), 플로우 제목 아래 첫 줄 화면의 제목 칸까지 56, 제목 칸 높이 25, 썸네일과 설명 사이 8, 화살표 굵기 2·끝점은 Figma Stroke End Point의 Triangle arrow.
+  - 배치 값: 화면 간격(이미지 사이) 가로 80·세로 80(판에서 누르기만 해 놓을 때의 간격이며, 드래그해 놓으면 사용자가 정한 자리를 따른다), 플로우 제목 아래 첫 줄 화면의 제목 칸까지 56, 제목 칸 높이 25, 썸네일과 설명 사이 8, 화살표 굵기 2·끝점은 Figma Stroke End Point의 Triangle arrow.
   - 글꼴은 Inter Regular/Bold, 글자 크기는 플로우 제목·제목·설명·조건 모두 16이다. 플로우 제목과 화면 제목은 굵게 쓴다.
 - **업데이트**
   - GUI를 배포하면 그 화면이 든 플로우의 썸네일 이미지만 새 썸네일로 바꾸고(레이어를 복사하지 않는다), 배포 결과에 「플로우 n개의 썸네일을 바꿨습니다」를 덧붙인다.
@@ -389,7 +390,7 @@
 - 아무 곳이나 누르거나 Enter·Space를 누르면 다음 단계로 가고, 마지막 단계에서 누르면 끝난다. 물음표 버튼 자리의 흰 원 X나 Esc로 언제든 끝낸다.
 - 단계
   - GUI Publish: 관리 → GUI 원본 범위 → 변경사항 확인 → 화면 목록 → 검색·필터 → 배포 → 화면 정보 → 태그·작업자 → 추가 설명 → 최종 확인 → 배포 확인 → 변경 감지 → 배포 이력 → 새 버전 페이지
-  - UI Flipbook: 관리 → 플립북 페이지·템플릿 → 화면 크기 → 새 플립북 → 자리 옮기기 → 위치·제목 → 선택된 화면 → 화면 선택 → 만들기 → 플립북 없는 화면 일괄 만들기 → 플립북 목록 → 확인이 필요한 플립북 → 플립북 상세 → 소속 화면 → 확인 완료 → GUI 붙이기 → 텍스트 편집기 → 플로우 편집기 → PDF 저장
+  - UI Flipbook: 관리 → 플립북 페이지·템플릿 → 화면 크기 → 새 플립북 → 자리 옮기기 → 위치·제목 → 선택된 화면 → 화면 선택 → 만들기 → 플립북 없는 화면 일괄 만들기 → 플립북 목록 → 확인이 필요한 플립북 → 플립북 상세 → 소속 화면 → 확인 완료 → GUI 목록 → 텍스트 편집기 → 플로우 편집기 → PDF 저장
 
 ## 확인 필요
 
@@ -417,9 +418,9 @@
   - 기본 템플릿의 글자(Flipbook Title·Chapter·Status 등)는 플러그인이 채우는 칸이라 일반 글자색이다. 칸 이름·페이지 이름은 영어다.
   - 템플릿으로 알아볼 프레임이 없을 때 가장 바깥 프레임을 지정한다.
 - **GUI 배치(새 템플릿)**: 여백 24·화면 사이 12, 작게 0.49배, 넘친 GUI 영역은 마지막 화면 아래 여백 24까지 늘린다. 새 화면을 이어 놓는 기준은 목록에서 바로 앞 화면이다.
-- **추적 GUI·GUI 붙이기**(2026-10-29 구현, 시험 브랜치 `tracked-gui`)
+- **추적 GUI·GUI 목록**(2026-10-29 구현, 시험 브랜치 `tracked-gui`)
   - 붙인 GUI는 놓은 점(누르면 보고 있는 화면 가운데)에 가운데를 맞추고, 붙인 뒤 그 GUI를 고른다. 오토 레이아웃 프레임에는 절대 위치로 놓는다. GUI 원본·복사본·인스턴스·컴포넌트 안에는 넣지 않는다.
-  - 카테고리 드롭다운의 기본 선택은 「전체」이다. 붙인 수는 링크 아이콘과 숫자를 합친 버튼으로 표시하고 0이면 비활성화한다. 탭 맨 아래에 붙이는 방법 안내를 둔다(Figma 끌어 놓기 안내 권고).
+  - 카테고리 드롭다운의 기본 선택은 「전체」이다. 붙인 수는 링크 아이콘과 숫자를 합친 버튼으로 표시하고 0이면 비활성화한다. 목록 위에 GUI 배치 안내, 탭 맨 아래에 파란색 TIP과 K 단축키 안내를 둔다.
   - 이전 템플릿 플립북에 붙인 GUI는 그 플립북 프레임 바로 아래에 놓이고, 플립북 밖의 추적 GUI처럼 다룬다.
   - 추적 목록은 만든 순서이고, 플로우를 누르면 그 화면의 썸네일 칸을 고른다.
   - 「삭제된 화면」 알림의 빨간 점은 확인이 필요한 플립북 개수에 세지 않는다. 사용 안 함이 된 화면의 GUI 기록(삭제 배포)은 그 플립북 이력에 더하지 않는다(화면 목록에서 먼저 뺀다).

diff --git a/README.md b/README.md
@@ -38,9 +38,9 @@ GUI팀과 UI팀이 한 Figma 파일에서 함께 쓰는 플러그인입니다. G
 4. [CONVENTION.md](CONVENTION.md): 코드를 바꿀 때 지킬 기준
 5. [PERFORMANCE_REVIEW.md](PERFORMANCE_REVIEW.md): 측정된 병목과 개선 근거
 
-### 화면 추적과 GUI 붙이기
+### 화면 추적과 GUI 목록
 
-UI Flipbook은 플립북 목록 · GUI 붙이기 · 텍스트 편집기 · 플로우 편집기 · PDF 저장 탭으로 구성됩니다. GUI 붙이기에서 캔버스에 놓은 화면은 플립북 밖에서도 GUI 배포를 따라갑니다. 새 템플릿 플립북의 화면 목록은 캔버스의 실제 소속으로 읽으며, 화면을 넣고 빼는 일은 이력을 만들지 않습니다. 화면별 추적 목록에서 붙인 GUI와 플로우의 위치를 찾습니다. 상세 정책과 이전 STB 템플릿 호환 범위는 [BEHAVIOR.md](BEHAVIOR.md)의 「추적 GUI」를 확인합니다.
+UI Flipbook은 플립북 목록 · GUI 목록 · 텍스트 편집기 · 플로우 편집기 · PDF 저장 탭으로 구성됩니다. GUI 목록에서 캔버스에 놓은 화면은 플립북 밖에서도 GUI 배포를 따라갑니다. 새 템플릿 플립북의 화면 목록은 캔버스의 실제 소속으로 읽으며, 화면을 넣고 빼는 일은 이력을 만들지 않습니다. 화면별 추적 목록에서 붙인 GUI와 플로우의 위치를 찾습니다. 상세 정책과 이전 STB 템플릿 호환 범위는 [BEHAVIOR.md](BEHAVIOR.md)의 「추적 GUI」를 확인합니다.
 
 ### 준비
 

diff --git a/CONVENTION.md b/CONVENTION.md
@@ -26,6 +26,7 @@
 - TypeScript의 `strict` 설정과 `.ts` 확장자 import를 유지한다. `import type`으로 타입 의존성을 구분한다. `any`나 강제 캐스팅은 Figma API 모의 객체 등 경계에서 불가피한 경우로 좁힌다.
 - `Screen.id`/`Flipbook.id`는 내부의 고정 ID, `Screen.code`는 사람이 보는 Screen ID, `nodeId`는 Figma 노드 ID다. 같은 `id`로 세 의미를 섞지 않는다.
 - `GUI`는 원본 화면 배포, `UI`는 현재 플립북 생성·확인 흐름을 뜻한다. 남아 있는 UI Publish 호환 경로를 현재 사용자 기능처럼 새 코드에 연결하지 않는다.
+- 마우스 조작의 사용자 안내는 「드래그」·「클릭」으로 표현한다. 「끌다」·「끌어 놓다」로 쓰지 않는다.
 - 사용자에게 보이는 새 한국어 문구는 `src/core/copy.ts`의 `COPY` 체계와 `scripts/CopySync.gs` 문구 관리 흐름을 따른다. 내부 변수명·타입명은 코드의 기존 영어 용어를 유지한다.
 - 주석에는 **이유·불변조건·호환 배경**을 적는다. 함수 이름만 풀어쓴 주석이나 날짜가 지난 작업 메모는 추가하지 않는다.
 
